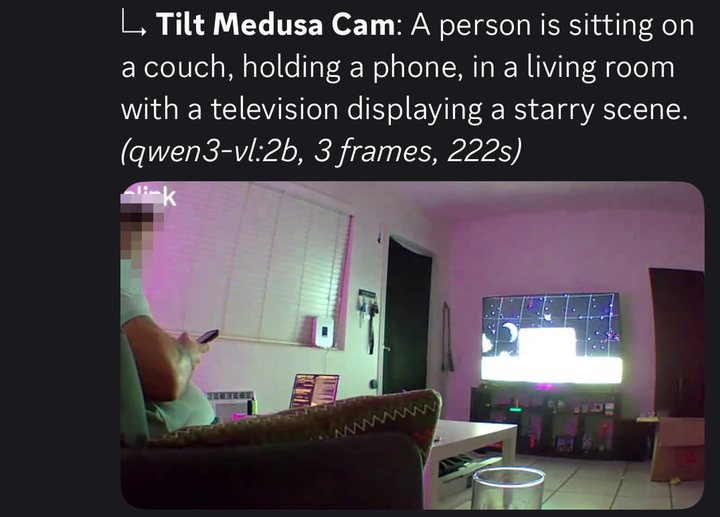
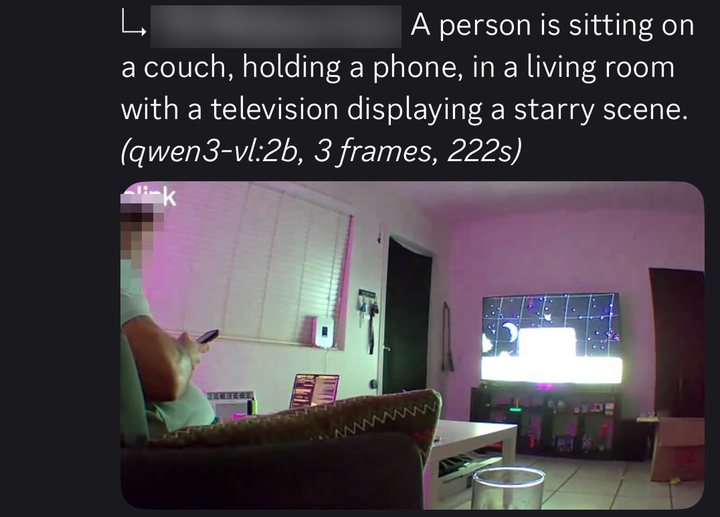
docs: blur camera names in the Blink screenshots
Camera names identify rooms and entrances, so they are blurred in all
five captures and removed from the alt text. Faces and the front-door
frame stay pixelated as before.

Claude-Session: https://claude.ai/code/session_0174HiQDKkVFuedAowuWBgxn

Changed region(s): [[0.1833, 0.0, 0.5806, 0.0928]]

diff --git a/index.html b/index.html
@@ -998,7 +998,7 @@
       <div class="shots reveal-child">
         <figure>
           <img src="img/blink/1-raw.jpg" width="720" height="480" loading="lazy"
-               alt="Discord alert from the Blink bot: 'Motion — Tilt Medusa Cam', with the raw clip attached.">
+               alt="Discord alert from the Blink bot announcing motion on a camera, with the raw clip attached. The camera name is blurred.">
           <figcaption><span class="shot-step">1 · Raw clip</span>Alert with the clip attached. No AI yet.</figcaption>
         </figure>
         <figure>
@@ -1023,7 +1023,7 @@
         </figure>
       </div>
       <p class="reveal-child shots-note">
-        Faces and the exterior view are pixelated. The captions are what matter.
+        Faces, camera names and the exterior view are obscured. The captions are what matter.
       </p>
 
       <h3 class="reveal-child">Bugs worth keeping</h3>

diff --git a/README.md b/README.md
@@ -100,7 +100,7 @@ notification like "Delivery driver leaves a package at the front door."
   roughly the same VRAM), and the first real clip was described in **2.6
   seconds**.
 
-The same Discord channel across all four stages, cropped, with faces and the
+The same Discord channel across all four stages, cropped, with faces, camera names and the
 exterior view pixelated. Each reply's footer gives the model, frames and time.
 
 | 1 · Raw clip | 2 · YOLO26n on CPU — 2.0s | 3 · 2B VLM on CPU — 222s | 4 · 0.8B, chained — 39s | 5 · 35B on synapse — 1s |
